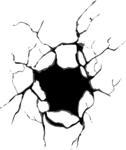
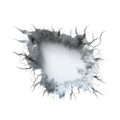
feat(stash): v2 hole art, move stash to bottom center
User direction: first texture was off; replaced with the second drop
(2500x2500 alpha PNG -> trimmed + downscaled to 120x120, no keying
needed this time) and the spot moved to bottom center (635, 490).
Trigger zone remeasured to the new art's solid interior (76x70 via
alpha-threshold + erode). Geometry note in config: zone top (455) just
clears the hand spawn row's body bottom (443.5), so level start cannot
insta-hide.

e2e adjusted: stash scenario steers Down over the new column; the stun
test now waits on the stunned state instead of a fixed 1.5s sleep (a
turn over the stash column legitimately detours through a 1s hide).

diff --git a/e2e/main-game.spec.ts b/e2e/main-game.spec.ts
@@ -123,11 +123,18 @@ test('hitting the top wall triggers stun', async ({ page }) => {
 
     // Travel: hand starts at y=410. Top wall's bottom edge ≈ y=57 (with
     // jitter). Vertical hand half-height = 53, so hand body top reaches
-    // the wall at hand center y ≈ 110. Distance to traverse: 410-110 =
-    // 300px at HAND_SPEED=300px/s = ~1s of upward motion. Use 1.5s to
-    // give margin.
+    // the wall at hand center y ≈ 110. Distance: 410-110 = 300px at
+    // HAND_SPEED=300px/s = ~1s of upward motion. Wait on the STATE, not a
+    // fixed sleep: if the turn lands over the bottom-center stash column,
+    // the vertical body clips the trigger zone and the trip starts with a
+    // 1s hide before resuming up — still well inside the 6s budget.
     await page.keyboard.down('ArrowUp');
-    await page.waitForTimeout(1500);
+    await page.waitForFunction(() => {
+        const scene = (window as GameWindow).__game!.scene.getScene('MainGame') as Phaser.Scene & {
+            handFSM?: { is: (name: string) => boolean };
+        };
+        return scene.handFSM?.is('stunned') ?? false;
+    }, { timeout: 6_000 });
     await page.keyboard.up('ArrowUp');
 
     const isStunned = await page.evaluate(() => {
@@ -266,36 +273,36 @@ test('stepping on a stash hole hides the hand, then auto-resumes', async ({ page
     await seedSettings(page);
     await loadAndStart(page);
 
-    // Level-1 stash sits at (470, 280) (config.ts LEVELS). The hand starts
-    // at (640, 410) moving left along y=410 — clear of the trigger. Steer:
-    // wait for the leftward sweep to bring hand.x into a window right of
-    // the stash column (the hand wraps every ~1.7s, so the window always
-    // arrives), then turn Up; the upward path crosses the trigger zone.
-    // Window math: the vertical hand overlaps the zone while turning at
-    // x ∈ [406, 534], and the vertical-safe-zone gate refuses turns below
-    // x=418.5. Catching at x ∈ (480, 530) and turning while still ≥ 430
-    // leaves ≥ 165ms of input-latency budget at 300px/s — wide enough for
-    // headless CDP key dispatch.
+    // Level-1 stash sits at bottom center, (635, 490) (config.ts LEVELS).
+    // The hand starts at (640, 410) moving left along y=410, just clear of
+    // the trigger (zone top 455 vs horizontal body bottom 443.5). Steer:
+    // wait for the sweep to bring hand.x over the stash column (the hand
+    // wraps every ~1.7s, so the window always arrives), then turn Down —
+    // the vertical body (bottom 463) overlaps the zone immediately.
+    // Window math: the vertical hand overlaps the zone for turns at
+    // x ∈ [563.5, 706.5]; catching at x ∈ (600, 690) leaves a wide
+    // input-latency budget at 300px/s, and the whole window sits inside
+    // the vertical-safe-zone gate [418.5, 851.5].
     await page.waitForFunction(() => {
         const scene = (window as GameWindow).__game!.scene.getScene('MainGame') as Phaser.Scene & {
             lastDirection?: string;
             hand?: { x: number };
         };
         return scene.lastDirection === 'left'
-            && (scene.hand?.x ?? 0) > 480 && (scene.hand?.x ?? 0) < 530;
+            && (scene.hand?.x ?? 0) > 600 && (scene.hand?.x ?? 0) < 690;
     }, { timeout: 10_000 });
 
-    await page.keyboard.down('ArrowUp');
+    await page.keyboard.down('ArrowDown');
 
-    // The hide should fire while traveling up through the zone (zone spans
-    // y 240..320; the hand reaches overlap within ~0.2s of the turn).
+    // The hide fires as soon as the turned (vertical) body overlaps the
+    // zone — effectively right after the turn registers.
     await page.waitForFunction(() => {
         const scene = (window as GameWindow).__game!.scene.getScene('MainGame') as Phaser.Scene & {
             handFSM?: { is: (name: string) => boolean };
         };
         return scene.handFSM?.is('hidden') ?? false;
     }, { timeout: 5_000 });
-    await page.keyboard.up('ArrowUp');
+    await page.keyboard.up('ArrowDown');
 
     // While hidden: hand sprite invisible.
     const hiddenVisibility = await page.evaluate(() => {
@@ -306,13 +313,15 @@ test('stepping on a stash hole hides the hand, then auto-resumes', async ({ page
     });
     expect(hiddenVisibility).toBe(false);
 
-    // Auto-resume after the 1s hide: back in a direction state ('up' — the
-    // hide preserves lastDirection rather than bouncing) and visible again.
+    // Auto-resume after the 1s hide: back in a direction state ('down' —
+    // the hide preserves lastDirection rather than bouncing) and visible
+    // again. (~0.3s later the resumed hand reaches the bottom wall and
+    // stuns; the rAF-polled wait catches the 'down' window comfortably.)
     await page.waitForFunction(() => {
         const scene = (window as GameWindow).__game!.scene.getScene('MainGame') as Phaser.Scene & {
             handFSM?: { is: (name: string) => boolean };
             hand?: { visible: boolean };
         };
-        return (scene.handFSM?.is('up') ?? false) && (scene.hand?.visible ?? false);
+        return (scene.handFSM?.is('down') ?? false) && (scene.hand?.visible ?? false);
     }, { timeout: 4_000 });
 });

diff --git a/src/game/config.ts b/src/game/config.ts
@@ -40,20 +40,21 @@ export const LOOT_SIZE: Size = {
     height: 61,
 };
 
-// Stash hole sprite (public/assets/hole.png): 126x150 as shipped — keyed out
-// of the artist's flattened 740x579 drop (checkerboard background removed by
-// luminance) and downscaled; identify-verified.
+// Stash hole sprite (public/assets/hole.png): 120x120 as shipped — trimmed
+// and downscaled from the user's 2500x2500 alpha PNG (v2 art, replaced the
+// keyed HEIC original 2026-06-12); identify-verified.
 export const HOLE_SIZE: Size = {
-    width: 126,
-    height: 150,
+    width: 120,
+    height: 120,
 };
 
-// Stash trigger zone — the dark hole CENTER of the sprite, not the full crack
-// span, so brushing the outer cracks doesn't swallow the hand. Measured on
-// the keyed source: center blob ≈215x280 of 438x520, scaled by 126/438 → ≈62x80.
+// Stash trigger zone — the solid hole INTERIOR of the sprite, not the full
+// crack span, so brushing the outer cracks doesn't swallow the hand.
+// Measured on the source via alpha-threshold + erode: interior blob
+// ≈1601x1455 of 2493x2492 (64% x 58%), scaled to 120px → ≈77x70.
 export const STASH_TRIGGER_SIZE: Size = {
-    width: 62,
-    height: 80,
+    width: 76,
+    height: 70,
 };
 
 // Game-feel tuning.
@@ -91,10 +92,13 @@ export interface LevelConfig {
 }
 
 export const LEVELS: LevelConfig[] = [
-    // Stash at (470, 280): left of the sword block (y≈200 band spans
-    // x 558..712), clear of the hand spawn row (y=410 — spawning onto a
-    // trigger would hide the hand at level start), inside the arcade area.
-    { id: 1, lootTarget: 5, timerSeconds: 60, stashSpots: [{ x: 470, y: 280 }] },
+    // Stash at bottom center (user direction 2026-06-12). Geometry: the
+    // hand spawns at (640, 410) — horizontal body bottom 443.5 — so the
+    // trigger zone's top edge (490 - 70/2 = 455) must stay below that or
+    // the level starts with an instant hide. At y=490 the clearance is
+    // 11.5px, and the 120px sprite's bottom rests at the bottom danger-tape
+    // edge (~550).
+    { id: 1, lootTarget: 5, timerSeconds: 60, stashSpots: [{ x: 635, y: 490 }] },
 ];
 
 // Current level index. Hardcoded for v1.0 single-level; becomes scene state

diff --git a/src/game/scenes/MainGame.ts b/src/game/scenes/MainGame.ts
@@ -720,9 +720,9 @@ export class MainGame extends Scene
 
         // STASH spots — cracked-hole tiles the hand auto-hides in (DESDOC
         // "нычка"). Image renders under the hand via display-list order
-        // (created before it). The physics zone covers only the dark hole
-        // CENTER (STASH_TRIGGER_SIZE), not the full crack span. hole.png is
-        // 126x150 native.
+        // (created before it). The physics zone covers only the solid hole
+        // INTERIOR (STASH_TRIGGER_SIZE), not the full crack span. hole.png
+        // is 120x120 native.
         this.stashSpots = LEVELS[CURRENT_LEVEL_INDEX].stashSpots.map((pos) => {
             this.add.image(pos.x, pos.y, 'hole');
             const zone = this.add.zone(pos.x, pos.y, STASH_TRIGGER_SIZE.width, STASH_TRIGGER_SIZE.height);

diff --git a/docs/TODOS.md b/docs/TODOS.md
@@ -8,12 +8,12 @@ Open work items for `donkey-jam-2026`. v1.0/v2.0 feature backlog, bugs, deferred
 
 - оп смотрит на стол при заполнении подозрения
   - Unblocked: stash prototype shipped 2026-06-11, `MainGame.handIsStashed()` predicate exists. Resume via the alarm-reactions design (`~/.gstack/projects/slick_hand_joe/dev-master-design-20260509-083149.md` — advisory; surface its R1-R5 calls for confirmation first).
-- нычка руки — **prototype shipped 2026-06-11.** `HiddenState` in `hand-states.ts`, one stash hole at (470, 280) via `LEVELS[].stashSpots`, hole art from the user's drop (keyed + resized to 126x150, `public/assets/hole.png`). Calls made in the prototype (revisit on playtest):
+- нычка руки — **prototype shipped 2026-06-11; art v2 + bottom-center placement 2026-06-12.** `HiddenState` in `hand-states.ts`, one stash hole at (635, 490) via `LEVELS[].stashSpots`, hole art from the user's second drop (alpha PNG resized to 120x120, `public/assets/hole.png`). Calls made in the prototype (revisit on playtest):
   - Touch → auto-hide 1s; cost = wasted level-timer time only (no loot/sus penalty). Resume continues the direction of travel (no bounce).
   - Re-trigger: auto-step-out — a zone re-arms only after the hand fully leaves it.
   - `Hidden` ⊥ `Stunned` confirmed: collider and overlap callbacks guard against each other.
-  - Trigger zone = the dark hole center (62x80), not the crack span.
-  - **Playtest watch-items:** turning vertical on the stash column can chain wall-stun → hide → wall-stun (pinball); if it feels punishing, add a re-arm cooldown. Hide has no SFX/animation yet (sink-in tween + plop sound are open polish). Tile count per level and duration scaling still open.
+  - Trigger zone = the solid hole interior (76x70), not the crack span.
+  - **Playtest watch-items:** bottom center sits in the stun corridor — turning down near mid-table hides immediately and the pop-out runs into the bottom wall (hide → stun chain); if that feels punishing, nudge the spot or add a re-arm cooldown. Hide has no SFX/animation yet (sink-in tween + plop sound are open polish). Tile count per level and duration scaling still open.
   - Додж-ценность (задоджить взгляд) приедет вместе с look-at-table.
 - загрузить вопросами
 - Integrate hand movement animation. The artist's GIF was completed during the jam but never wired into the sprite. Replace the static `'hand'` image with proper Phaser animation frames.